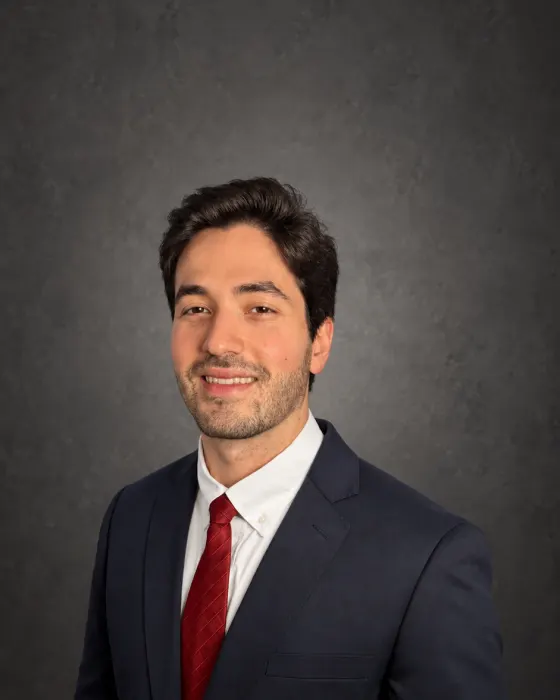
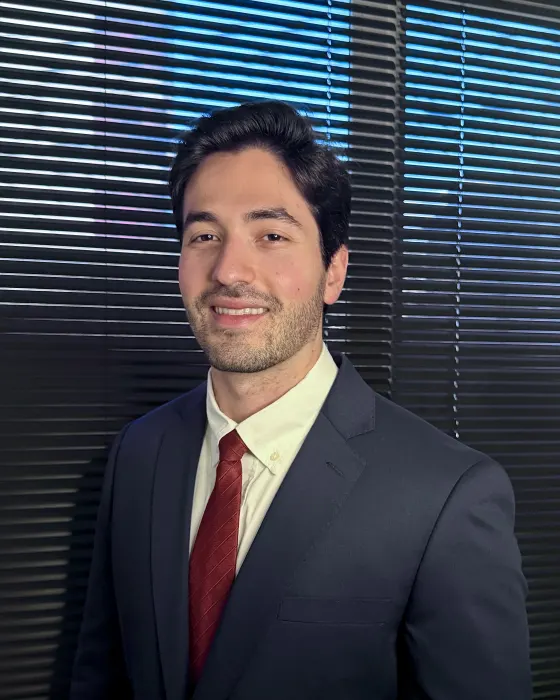
Novas fotos do advogado e da placa, bordas arredondadas, galeria menor, fontes no próprio site e ajustes para celular

diff --git a/index.html b/index.html
@@ -43,9 +43,8 @@
     try { var t = localStorage.getItem("theme"); if (t) document.documentElement.setAttribute("data-theme", t); } catch (e) {}
   </script>
 
-  <link rel="preconnect" href="https://fonts.googleapis.com">
-  <link rel="preconnect" href="https://fonts.gstatic.com" crossorigin>
-  <link rel="stylesheet" href="https://fonts.googleapis.com/css2?family=Inria+Serif:ital,wght@0,300;0,400;1,300&family=Montserrat:wght@300;400;500&display=swap">
+  <link rel="preload" href="assets/fonts/inria-serif-300.woff2" as="font" type="font/woff2" crossorigin>
+  <link rel="preload" href="assets/fonts/montserrat-variable.woff2" as="font" type="font/woff2" crossorigin>
   <link rel="preload" as="image" href="assets/img/carus-guido-placa-1000.webp" imagesrcset="assets/img/carus-guido-placa-560.webp 560w, assets/img/carus-guido-placa-1000.webp 1000w" imagesizes="(max-width: 860px) 90vw, 480px" fetchpriority="high">
   <link rel="stylesheet" href="assets/css/style.css">
 
@@ -153,8 +152,8 @@
             src="assets/img/carus-guido-placa-1000.webp"
             srcset="assets/img/carus-guido-placa-560.webp 560w, assets/img/carus-guido-placa-1000.webp 1000w"
             sizes="(max-width: 860px) 90vw, 480px"
-            width="1000" height="1250"
-            alt="Placa do escritório Carús Guido Advocacia em vidro escuro, fixada na parede de textura cinza da recepção"
+            width="1000" height="1000"
+            alt="Placa do escritório Carús Guido Advocacia em vidro escuro, fixada em parede de concreto aparente"
             fetchpriority="high" decoding="async"></div>
           <figcaption><strong>Rua Dr. Pantaleão, 270</strong>Santa Maria · RS</figcaption>
         </figure>
@@ -219,25 +218,25 @@
       <ul class="gallery__track" tabindex="0" aria-label="Fotos do escritório. Use as setas do teclado para navegar.">
           <li class="gallery__item">
             <figure>
-              <img src="assets/img/escritorio-sala-1400.webp" srcset="assets/img/escritorio-sala-800.webp 800w, assets/img/escritorio-sala-1400.webp 1400w" sizes="(max-width: 760px) 86vw, min(76vw, 900px)" width="1400" height="1050" loading="lazy" decoding="async" alt="Sala de atendimento com mesa escura, cadeira executiva de couro preto, televisor na parede e persianas pretas nas janelas">
+              <img src="assets/img/escritorio-sala-1400.webp" srcset="assets/img/escritorio-sala-800.webp 800w, assets/img/escritorio-sala-1100.webp 1100w, assets/img/escritorio-sala-1400.webp 1400w" sizes="(max-width: 760px) 86vw, 760px" width="1400" height="1050" loading="lazy" decoding="async" alt="Sala de atendimento com mesa escura, cadeira executiva de couro preto, televisor na parede e persianas pretas nas janelas">
               <figcaption><span>01</span>Sala de atendimento</figcaption>
             </figure>
           </li>
           <li class="gallery__item">
             <figure>
-              <img src="assets/img/escritorio-reunioes-1400.webp" srcset="assets/img/escritorio-reunioes-800.webp 800w, assets/img/escritorio-reunioes-1400.webp 1400w" sizes="(max-width: 760px) 86vw, min(76vw, 900px)" width="1400" height="1050" loading="lazy" decoding="async" alt="Sala de reuniões com mesa retangular preta, cadeiras de couro, notebook sobre a mesa e iluminação embutida">
+              <img src="assets/img/escritorio-reunioes-1400.webp" srcset="assets/img/escritorio-reunioes-800.webp 800w, assets/img/escritorio-reunioes-1100.webp 1100w, assets/img/escritorio-reunioes-1400.webp 1400w" sizes="(max-width: 760px) 86vw, 760px" width="1400" height="1050" loading="lazy" decoding="async" alt="Sala de reuniões com mesa retangular preta, cadeiras de couro, notebook sobre a mesa e iluminação embutida">
               <figcaption><span>02</span>Sala de reuniões</figcaption>
             </figure>
           </li>
           <li class="gallery__item">
             <figure>
-              <img src="assets/img/escritorio-recepcao-1400.webp" srcset="assets/img/escritorio-recepcao-800.webp 800w, assets/img/escritorio-recepcao-1400.webp 1400w" sizes="(max-width: 760px) 86vw, min(76vw, 900px)" width="1400" height="1050" loading="lazy" decoding="async" alt="Recepção com duas poltronas de couro marrom, plantas e janelas amplas voltadas para a rua">
+              <img src="assets/img/escritorio-recepcao-1400.webp" srcset="assets/img/escritorio-recepcao-800.webp 800w, assets/img/escritorio-recepcao-1100.webp 1100w, assets/img/escritorio-recepcao-1400.webp 1400w" sizes="(max-width: 760px) 86vw, 760px" width="1400" height="1050" loading="lazy" decoding="async" alt="Recepção com duas poltronas de couro marrom, plantas e janelas amplas voltadas para a rua">
               <figcaption><span>03</span>Recepção</figcaption>
             </figure>
           </li>
           <li class="gallery__item">
             <figure>
-              <img src="assets/img/escritorio-entrada-1400.webp" srcset="assets/img/escritorio-entrada-800.webp 800w, assets/img/escritorio-entrada-1400.webp 1400w" sizes="(max-width: 760px) 86vw, min(76vw, 900px)" width="1400" height="1050" loading="lazy" decoding="async" alt="Entrada do escritório no térreo, com porta de vidro, poltronas, plantas e piso claro">
+              <img src="assets/img/escritorio-entrada-1400.webp" srcset="assets/img/escritorio-entrada-800.webp 800w, assets/img/escritorio-entrada-1100.webp 1100w, assets/img/escritorio-entrada-1400.webp 1400w" sizes="(max-width: 760px) 86vw, 760px" width="1400" height="1050" loading="lazy" decoding="async" alt="Entrada do escritório no térreo, com porta de vidro, poltronas, plantas e piso claro">
               <figcaption><span>04</span>Entrada</figcaption>
             </figure>
           </li>
@@ -248,7 +247,7 @@
     <section class="section section--alt lawyer" id="advogado" aria-labelledby="advogado-titulo">
       <div class="wrap lawyer__grid">
         <figure class="lawyer__photo reveal">
-          <img src="assets/img/joao-carlos-carus-guido-900.webp" srcset="assets/img/joao-carlos-carus-guido-560.webp 560w, assets/img/joao-carlos-carus-guido-900.webp 900w" sizes="(max-width: 860px) 90vw, 420px" width="900" height="1125" loading="lazy" decoding="async" alt="Retrato do advogado João Carlos Carús Guido sorrindo, de terno azul-marinho, camisa branca e gravata vermelha, em fundo cinza">
+          <img src="assets/img/joao-carlos-carus-guido-900.webp" srcset="assets/img/joao-carlos-carus-guido-560.webp 560w, assets/img/joao-carlos-carus-guido-900.webp 900w" sizes="(max-width: 860px) 90vw, 420px" width="900" height="1125" loading="lazy" decoding="async" alt="Retrato do advogado João Carlos Carús Guido sorrindo, de terno azul-marinho, camisa branca e gravata vermelha, diante de uma janela com persianas">
         </figure>
         <div class="lawyer__text reveal">
           <p class="eyebrow">Sobre o advogado</p>

diff --git a/assets/css/style.css b/assets/css/style.css
@@ -4,6 +4,12 @@
            Bright Snow #F9F8F6 · Parchment #F2F0ED · Iron Grey #474747
    ========================================================================== */
 
+/* Fontes hospedadas no próprio site (subconjunto latino) */
+@font-face { font-family: "Inria Serif"; font-style: normal; font-weight: 300; font-display: swap; src: url("../fonts/inria-serif-300.woff2") format("woff2"); }
+@font-face { font-family: "Inria Serif"; font-style: normal; font-weight: 400; font-display: swap; src: url("../fonts/inria-serif-400.woff2") format("woff2"); }
+@font-face { font-family: "Inria Serif"; font-style: italic; font-weight: 300; font-display: swap; src: url("../fonts/inria-serif-300-italic.woff2") format("woff2"); }
+@font-face { font-family: "Montserrat"; font-style: normal; font-weight: 300 500; font-display: swap; src: url("../fonts/montserrat-variable.woff2") format("woff2"); }
+
 :root {
   --bg: #F9F8F6;
   --bg-alt: #F2F0ED;
@@ -24,6 +30,7 @@
   --gutter: clamp(1rem, 4vw, 2.5rem);
   --section: clamp(4.5rem, 10vw, 8.5rem);
   --radius: 2px;
+  --radius-photo: 10px;
   --ease: cubic-bezier(.2, .7, .2, 1);
   color-scheme: light;
 }
@@ -232,10 +239,10 @@ em { font-style: italic; }
 .portrait__img { position: relative; }
 .portrait__img::before {
   content: ""; position: absolute; inset: 1.5rem -1.5rem -1.5rem 1.5rem;
-  border: 1px solid var(--line-strong); z-index: 0;
+  border: 1px solid var(--line-strong); z-index: 0; border-radius: var(--radius-photo);
 }
-.portrait img { position: relative; z-index: 1; width: 100%; aspect-ratio: 1 / 1; object-fit: cover; background: #4a4a4a; filter: grayscale(12%); }
-.portrait--place img { aspect-ratio: 4 / 5; background: #8d8a86; filter: none; }
+.portrait img { position: relative; z-index: 1; width: 100%; aspect-ratio: 1 / 1; object-fit: cover; background: #4a4a4a; filter: grayscale(12%); border-radius: var(--radius-photo); }
+.portrait--place img { aspect-ratio: 1 / 1; background: #8d8a86; filter: none; }
 .portrait figcaption {
   position: relative; z-index: 1; margin-top: 2.4rem;
   font-size: .72rem; letter-spacing: .2em; text-transform: uppercase; color: var(--muted);
@@ -344,6 +351,15 @@ em { font-style: italic; }
 }
 .chip:hover { border-color: var(--text); color: var(--text); }
 .chip[aria-pressed="true"] { background: var(--ink); border-color: var(--ink); color: var(--on-ink); }
+@media (max-width: 760px) {
+  .filters {
+    flex-wrap: nowrap; overflow-x: auto; scrollbar-width: none;
+    margin-inline: calc(var(--gutter) * -1); padding-inline: var(--gutter);
+    scroll-padding-inline: var(--gutter);
+  }
+  .filters::-webkit-scrollbar { display: none; }
+  .chip { flex: none; white-space: nowrap; }
+}
 
 .faq { border-top: 1px solid var(--line-strong); }
 .faq details { border-bottom: 1px solid var(--line); }
@@ -403,6 +419,9 @@ em { font-style: italic; }
 @media (max-width: 860px) {
   .contact__grid { grid-template-columns: 1fr; }
   .contact__list li { grid-template-columns: 1fr; gap: .1rem; }
+  .contact__list a { display: inline-block; padding: .55rem 0; }
+  .footer__nav { gap: 0 1.6rem; }
+  .footer__nav a, .footer__nav .footer__link { display: inline-block; padding: .9rem 0; }
 }
 
 /* ---------- Rodapé ---------- */
@@ -451,7 +470,7 @@ em { font-style: italic; }
 .gallery__track {
   --inset: max(var(--gutter), calc((100vw - var(--wrap)) / 2 + var(--gutter)));
   list-style: none; margin: 0; padding: 0 var(--inset) 1rem;
-  display: grid; grid-auto-flow: column; grid-auto-columns: min(76vw, 900px); gap: clamp(1rem, 2.5vw, 2rem);
+  display: grid; grid-auto-flow: column; grid-auto-columns: min(62vw, 760px, calc((100svh - 17rem) * 4 / 3)); gap: clamp(1rem, 2.5vw, 2rem);
   overflow-x: auto; overscroll-behavior-x: contain;
   scroll-snap-type: x mandatory; scroll-padding-inline: var(--inset);
   scrollbar-width: thin; scrollbar-color: var(--line-strong) transparent;
@@ -463,6 +482,7 @@ em { font-style: italic; }
 .gallery__item figure { margin: 0; }
 .gallery__item img {
   width: 100%; aspect-ratio: 4 / 3; object-fit: cover; background: var(--line);
+  border-radius: var(--radius-photo);
   transition: filter .6s var(--ease);
 }
 .gallery__item:not(.is-current) img { filter: saturate(.55) brightness(.94); }
@@ -482,9 +502,9 @@ em { font-style: italic; }
 .lawyer__photo { position: relative; margin: 0; max-width: 26rem; }
 .lawyer__photo::before {
   content: ""; position: absolute; inset: -1.5rem 1.5rem 1.5rem -1.5rem;
-  border: 1px solid var(--line-strong);
+  border: 1px solid var(--line-strong); border-radius: var(--radius-photo);
 }
-.lawyer__photo img { position: relative; width: 100%; aspect-ratio: 4 / 5; object-fit: cover; background: #3f3f3f; }
+.lawyer__photo img { position: relative; width: 100%; aspect-ratio: 4 / 5; object-fit: cover; background: #3f3f3f; border-radius: var(--radius-photo); }
 .lawyer__text h2 { margin-bottom: .35rem; }
 .lawyer__oab { font-size: .72rem; letter-spacing: .2em; text-transform: uppercase; color: var(--muted); margin-bottom: 2rem; }
 .lawyer__subtitle { font-family: var(--sans); font-weight: 400; font-size: .72rem; letter-spacing: .28em; text-transform: uppercase; color: var(--muted); margin: 2.8rem 0 0; }

diff --git a/politica-de-privacidade.html b/politica-de-privacidade.html
@@ -24,9 +24,8 @@
   <link rel="icon" href="assets/img/favicon.svg" type="image/svg+xml">
   <link rel="apple-touch-icon" href="assets/img/icon-180.png">
   <script>try { var t = localStorage.getItem("theme"); if (t) document.documentElement.setAttribute("data-theme", t); } catch (e) {}</script>
-  <link rel="preconnect" href="https://fonts.googleapis.com">
-  <link rel="preconnect" href="https://fonts.gstatic.com" crossorigin>
-  <link rel="stylesheet" href="https://fonts.googleapis.com/css2?family=Inria+Serif:ital,wght@0,300;0,400;1,300&family=Montserrat:wght@300;400;500&display=swap">
+  <link rel="preload" href="assets/fonts/inria-serif-300.woff2" as="font" type="font/woff2" crossorigin>
+  <link rel="preload" href="assets/fonts/montserrat-variable.woff2" as="font" type="font/woff2" crossorigin>
   <link rel="stylesheet" href="assets/css/style.css">
 </head>
 <body>
@@ -78,7 +77,6 @@
         <h2>2. Serviços de terceiros</h2>
         <ul>
           <li><strong>Hospedagem:</strong> o site é hospedado no GitHub Pages (GitHub, Inc.), que pode registrar dados técnicos de acesso, como endereço IP, para fins de segurança e funcionamento.</li>
-          <li><strong>Fontes tipográficas:</strong> as fontes são carregadas do Google Fonts (Google LLC), que recebe dados técnicos da requisição, como endereço IP e navegador.</li>
           <li><strong>Mapa:</strong> o mapa da página inicial é fornecido pelo Google Maps (Google LLC), que pode coletar dados técnicos e utilizar cookies próprios quando o mapa é carregado, conforme a política de privacidade do Google.</li>
           <li><strong>Medição de audiência:</strong> utilizamos o Google Tag Manager e ferramentas de análise do Google (como o Google Analytics), da Google LLC, que, somente após o seu aceite, podem utilizar cookies e dados técnicos, como endereço IP e identificadores do navegador, para gerar estatísticas de visitas. Se você recusar, nenhum cookie de medição é gravado. Você também pode bloquear ou apagar cookies nas configurações do seu navegador ou instalar o <a href="https://tools.google.com/dlpage/gaoptout" target="_blank" rel="noopener">complemento de desativação do Google Analytics</a>. Saiba mais em <a href="https://policies.google.com/technologies/partner-sites" target="_blank" rel="noopener">como o Google usa dados de sites parceiros</a>.</li>
           <li><strong>WhatsApp:</strong> ao clicar no botão de WhatsApp, você é direcionado ao serviço da Meta, sujeito à política de privacidade própria.</li>

diff --git a/404.html b/404.html
@@ -24,9 +24,8 @@
   <link rel="icon" href="/assets/img/favicon.svg" type="image/svg+xml">
   <link rel="apple-touch-icon" href="/assets/img/icon-180.png">
   <script>try { var t = localStorage.getItem("theme"); if (t) document.documentElement.setAttribute("data-theme", t); } catch (e) {}</script>
-  <link rel="preconnect" href="https://fonts.googleapis.com">
-  <link rel="preconnect" href="https://fonts.gstatic.com" crossorigin>
-  <link rel="stylesheet" href="https://fonts.googleapis.com/css2?family=Inria+Serif:ital,wght@0,300;0,400;1,300&family=Montserrat:wght@300;400;500&display=swap">
+  <link rel="preload" href="/assets/fonts/inria-serif-300.woff2" as="font" type="font/woff2" crossorigin>
+  <link rel="preload" href="/assets/fonts/montserrat-variable.woff2" as="font" type="font/woff2" crossorigin>
   <link rel="stylesheet" href="/assets/css/style.css">
 </head>
 <body>
